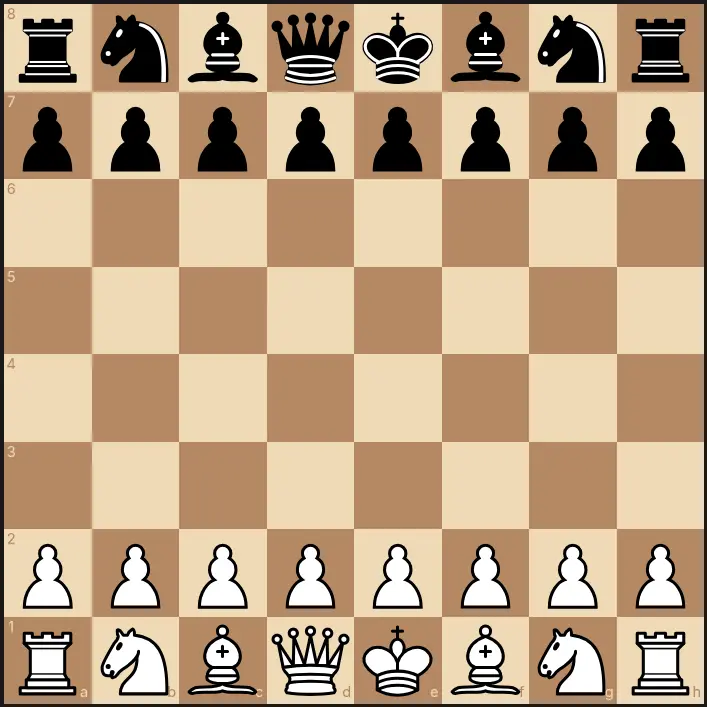
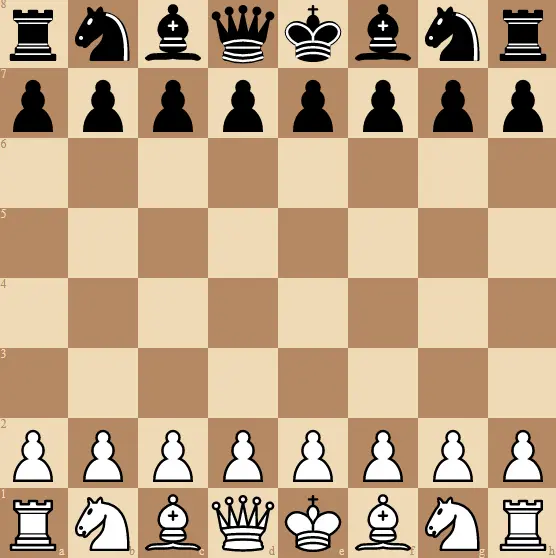
some fixes add footer

diff --git a/src/components/navbar/index.tsx b/src/components/navbar/index.tsx
@@ -9,7 +9,7 @@ import {
 } from "motion/react";
 import Link from "next/link";
 import { cn } from "@/lib/utils";
-import { IconMenu2, IconX } from "@tabler/icons-react";
+import { IconBrandGithub, IconMenu2, IconX } from "@tabler/icons-react";
 import { useRouter } from "next/navigation";
 import Container from "../Container";
 
@@ -25,6 +25,11 @@ const navItems = [
   {
     name: "Blog",
     href: "/blog",
+  },
+  {
+    name: "github",
+    href: "https://github.com/pratiiikkk/chess",
+    icon: <IconBrandGithub size={22} className="text-neutral-300" />,
   },
 ];
 
@@ -70,13 +75,16 @@ export default function Navbar() {
                 key={idx}
                 className={cn(
                   "relative px-3 py-2 font-medium tracking-wide text-neutral-300 transition-colors duration-200 lg:px-4",
-                  hovered === idx && "text-primary",
+                  hovered === idx && "text-neutral-50",
                 )}
               >
                 {hovered === idx && (
                   <motion.span
                     layoutId="nav"
-                    className="bg-secondary/50 dark:bg-secondary/30 absolute inset-0 -z-10 h-full w-full rounded-lg"
+                    className={cn(
+                      "bg-neutral-500/50 dark:bg-neutral-600/30 absolute inset-0 -z-10 h-full w-full rounded-lg",
+                      item.name === "github" && "rounded-full",
+                    )}
                     transition={{
                       type: "spring",
                       stiffness: 500,
@@ -85,7 +93,7 @@ export default function Navbar() {
                     }}
                   />
                 )}
-                {item.name}
+                {item.icon ? item.icon : item.name}
               </Link>
             ))}
           </motion.div>
@@ -111,7 +119,7 @@ export default function Navbar() {
               initial={{ opacity: 0 }}
               animate={{ opacity: 1 }}
               exit={{ opacity: 0 }}
-              transition={{ duration: 0.3, ease: "easeInOut" }}
+              transition={{ duration: 0.5, ease: "easeInOut" }}
               className="fixed inset-0 z-40 md:hidden"
             >
               <motion.div
@@ -126,19 +134,19 @@ export default function Navbar() {
                   initial={{ opacity: 0, y: 60 }}
                   animate={{ opacity: 1, y: 0 }}
                   exit={{ opacity: 0, y: 60 }}
-                  transition={{ duration: 0.5, delay: 0.1, ease: "easeOut" }}
+                  transition={{ duration: 0.5, delay: 0.1, ease: "easeInOut" }}
                   className="flex flex-col items-center space-y-12"
                 >
                   {navItems.map((item, idx) => (
                     <motion.div
-                      key={idx}
+                      key={idx+"item.name"}
                       initial={{ opacity: 0, y: 40 }}
                       animate={{ opacity: 1, y: 0 }}
                       exit={{ opacity: 0, y: 40 }}
                       transition={{
-                        duration: 0.5,
-                        delay: 0.3 + idx * 0.15,
-                        ease: "easeOut",
+                        duration: 0.3,
+                        delay: .3 + idx * 0.15,
+                        ease: "easeInOut",
                       }}
                     >
                       <Link
@@ -149,9 +157,9 @@ export default function Navbar() {
                         <motion.span
                           whileHover={{ scale: 1.05 }}
                           whileTap={{ scale: 0.98 }}
-                          className="group-hover:text-primary relative block text-2xl font-light tracking-wide text-neutral-300 transition-colors duration-300 sm:text-5xl"
+                          className={cn("group-hover:text-primary relative block text-2xl font-light tracking-wide text-neutral-300 transition-colors duration-300 sm:text-5xl",item.name === "github" && "rounded-full bg-neutral-800 p-3")}
                         >
-                          {item.name}
+                        {item.icon ? item.icon : item.name}
                           <motion.div
                             className="bg-primary absolute -bottom-2 left-0 h-0.5 origin-left"
                             initial={{ scaleX: 0 }}

diff --git a/src/components/pages/PlayPage.tsx b/src/components/pages/PlayPage.tsx
@@ -66,7 +66,7 @@ export default function PlayPage() {
     <>
     <Navbar/>
     
-    <Container className="max-w-7xl mt-20">
+    <Container className="max-w-7xl sm:mt-20">
       <TopBackgroundGradient />
       <div className="min-h-screen pt-20">
         <div className="mx-auto grid w-full grid-cols-1 gap-12 px-4 lg:grid-cols-2 lg:items-center">
@@ -74,10 +74,10 @@ export default function PlayPage() {
           <div className="flex justify-center">
             <div className="relative">
               <Image
-                src="/board.webp"
+                src="/chessboard.png"
                 alt="Chess Board"
-                width={600}
-                height={600}
+                width={1000}
+                height={1000}
                 className="rounded-2xl shadow-2xl ring-1 ring-border/20"
                 priority
               />
@@ -175,7 +175,7 @@ export default function PlayPage() {
             </div>
 
            
-            <div className="space-y-3 rounded-lg border border-border bg-card/50 p-6">
+            <div className="space-y-3 rounded-lg border border-border bg-card/50 p-6 mb-10">
               <h3 className="font-semibold text-foreground">How to Play</h3>
               <div className="space-y-2 text-sm text-muted-foreground">
                 <div className="flex items-start space-x-3">

diff --git a/src/app/layout.tsx b/src/app/layout.tsx
@@ -4,7 +4,8 @@ import "./globals.css";
 import { Toaster } from "@/components/ui/sonner";
 import { SocketProvider } from "@/context/SocketProvider";
 import { GameProvider } from "@/context/GameProvider";
-
+import { unstable_ViewTransition as ViewTransition } from 'react'
+import Footer from "@/components/Footer";
 const inter = Inter({ weight: ["300", "400", "700"], subsets: ["latin"] });
 export const metadata: Metadata = {
   title: "chess",
@@ -17,13 +18,17 @@ export default function RootLayout({
   children: React.ReactNode;
 }>) {
   return (
+    <ViewTransition >
+
     <html lang="en">
       <body className={`${inter.className} dark antialiased`}>
         <Toaster />
         <SocketProvider>
           <GameProvider>{children}</GameProvider>
         </SocketProvider>
+        <Footer/>
       </body>
     </html>
+    </ViewTransition>
   );
 }

diff --git a/src/components/Footer.tsx b/src/components/Footer.tsx
@@ -1,0 +1,16 @@
+"use client";
+
+import Container from "./Container";
+
+
+export default function Footer() {
+  return (
+    <>
+    <Container>
+        <footer>
+            
+        </footer>
+    </Container>
+    </>
+  );
+}

diff --git a/next.config.ts b/next.config.ts
@@ -1,8 +1,11 @@
 import type { NextConfig } from "next";
 
 const nextConfig: NextConfig = {
-   eslint: {
+  eslint: {
     ignoreDuringBuilds: true,
+  },
+  experimental: {
+    viewTransition: true,
   },
 };
 
